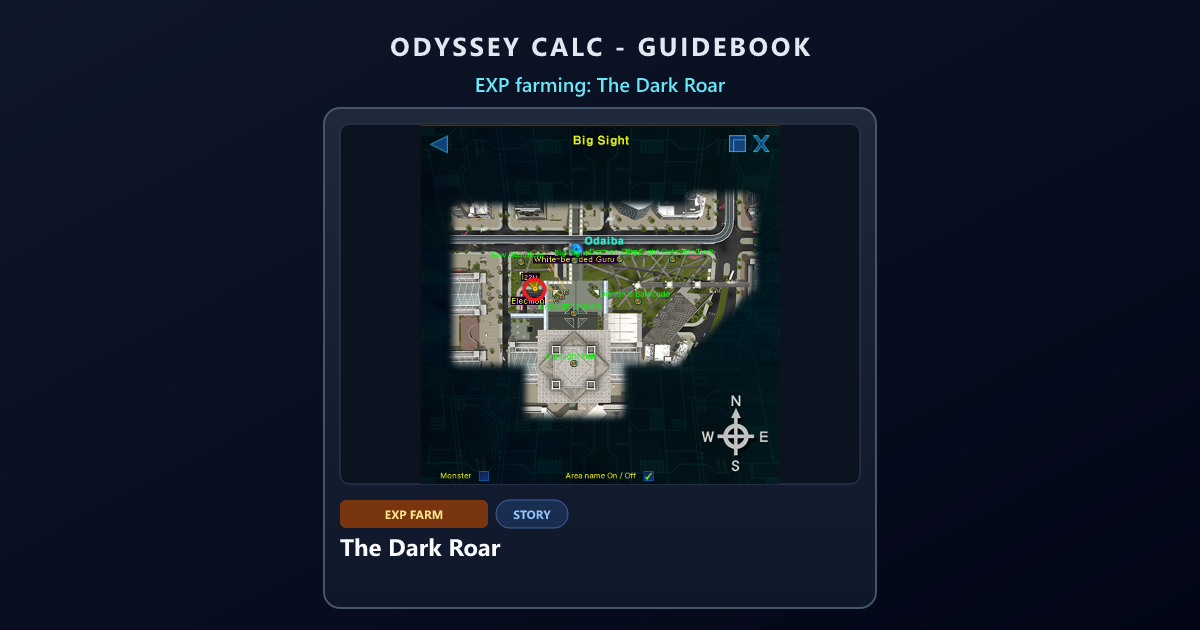
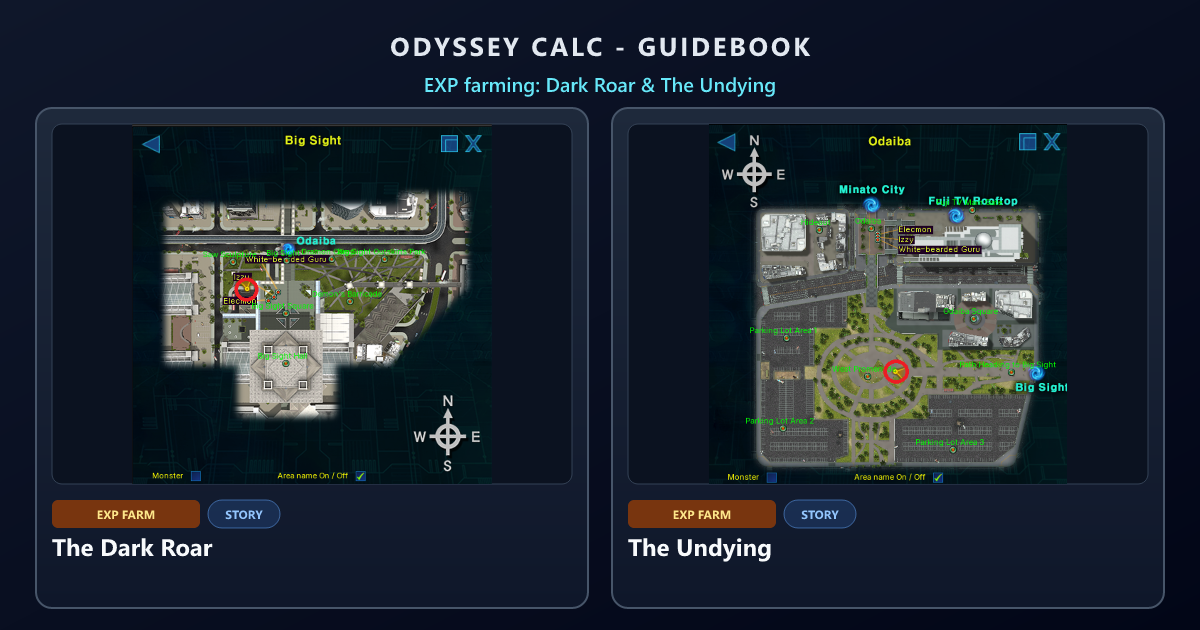
Expand EXP farming with The Undying dungeon and location art.
Rename zone to Gain levels, add VenomVamdemon farm copy, dual dungeon panels, and regenerate Discord share previews with the-undying-location.png.

diff --git a/src/components/guidebook/GuidebookWidgets.tsx b/src/components/guidebook/GuidebookWidgets.tsx
@@ -58,6 +58,7 @@ import {
 import {
   GUIDEBOOK_AGUMON_CLASSIC_ID,
   GUIDEBOOK_DARK_ROAR_DUNGEON_ID,
+  GUIDEBOOK_UNDYING_EXP_DUNGEON_ID,
   GUIDEBOOK_HIKARI_SEES_ODAIBA_QUEST_ID,
   GUIDEBOOK_DIGIVICE_FRAGMENT_EACH_COUNT,
   GUIDEBOOK_DIGIVICE_FRAGMENTS,
@@ -1503,18 +1504,25 @@ export function GuideEarlyGame70Beyond() {
             Now that you&apos;ve done that 70 uncap, you can reach 90 before the next cap. You may want
             to start leveling other digimon and the perfect place to do so is the Dark Roar dungeon in
             Big Sight. It gives a large amount of EXP in Story difficulty and can be done very easily
-            solo or in a party.
+            solo or in a party. You can also run VenomVamdemon in The Undying Story Mode for EXP, solo or in
+            a party. You can find this in Odaiba.
           </p>
         </GuideProse>
       </GuidebookNotes>
       <GuidebookDungeonPanel
-        layout="single"
-        ariaLabel="Dark Roar"
+        ariaLabel="EXP farming dungeons"
         cards={[
           {
             dungeonId: GUIDEBOOK_DARK_ROAR_DUNGEON_ID,
             nameFallback: 'The Dark Roar',
             difficulty: 'Story',
+            badgeLabel: 'EXP farm',
+          },
+          {
+            dungeonId: GUIDEBOOK_UNDYING_EXP_DUNGEON_ID,
+            nameFallback: 'The Undying',
+            difficulty: 'Story',
+            badgeLabel: 'EXP farm',
           },
         ]}
       />

diff --git a/public/share/guidebook/early-70-beyond/index.html b/public/share/guidebook/early-70-beyond/index.html
@@ -4,18 +4,18 @@
   <meta charset="UTF-8" />
   <meta name="viewport" content="width=device-width, initial-scale=1.0" />
   <title>EXP farming - Odyssey Calc Guidebook</title>
-  <meta name="description" content="The Dark Roar (Story) in Big Sight for fast EXP after your level 70 uncap. Odyssey Calc Guidebook" />
+  <meta name="description" content="The Dark Roar and The Undying (Story) for fast EXP after your level 70 uncap. Odyssey Calc Guidebook" />
   <meta property="og:type" content="website" />
   <meta property="og:site_name" content="Odyssey Calc" />
   <meta property="og:title" content="EXP farming - Odyssey Calc" />
-  <meta property="og:description" content="The Dark Roar (Story) in Big Sight for fast EXP after your level 70 uncap. Odyssey Calc Guidebook" />
+  <meta property="og:description" content="The Dark Roar and The Undying (Story) for fast EXP after your level 70 uncap. Odyssey Calc Guidebook" />
   <meta property="og:url" content="https://odyssey-calc.com/share/guidebook/early-70-beyond/" />
   <meta property="og:image" content="https://odyssey-calc.com/og/guidebook-early-70-beyond.png" />
   <meta property="og:image:width" content="1200" />
   <meta property="og:image:height" content="630" />
   <meta name="twitter:card" content="summary_large_image" />
   <meta name="twitter:title" content="EXP farming - Odyssey Calc" />
-  <meta name="twitter:description" content="The Dark Roar (Story) in Big Sight for fast EXP after your level 70 uncap. Odyssey Calc Guidebook" />
+  <meta name="twitter:description" content="The Dark Roar and The Undying (Story) for fast EXP after your level 70 uncap. Odyssey Calc Guidebook" />
   <meta name="twitter:image" content="https://odyssey-calc.com/og/guidebook-early-70-beyond.png" />
   <link rel="canonical" href="https://odyssey-calc.com/share/guidebook/early-70-beyond/" />
   <style>
@@ -30,11 +30,16 @@
 <body>
   <div class="wrap">
     <h1>EXP farming</h1>
-    <p class="muted">The Dark Roar (Story) in Big Sight for fast EXP after your level 70 uncap. Odyssey Calc Guidebook</p>
+    <p class="muted">The Dark Roar and The Undying (Story) for fast EXP after your level 70 uncap. Odyssey Calc Guidebook</p>
     <div class="panels"><article style="flex:1;min-width:280px;max-width:440px;background:linear-gradient(165deg,#1e293b,#0f172a);border:1px solid rgba(148,163,184,.25);border-radius:12px;padding:14px">
   <img src="../../../guidebook/uncap-dungeons/dark-roar-location.png" alt="The Dark Roar entrance / map location (Big Sight)" style="display:block;width:100%;aspect-ratio:16/9;object-fit:contain;object-position:center;border-radius:8px;border:1px solid #334155;margin-bottom:12px;background:#0b1220" />
   <div style="display:flex;flex-wrap:wrap;gap:8px;align-items:center;margin-bottom:10px"><span style="display:inline-block;padding:4px 10px;border-radius:6px;background:rgba(120,53,15,.9);color:#fde68a;font:700 11px system-ui,sans-serif;letter-spacing:.04em">EXP FARM</span><span style="display:inline-block;padding:4px 10px;border-radius:999px;background:rgba(59,130,246,.14);color:#93c5fd;border:1px solid rgba(96,165,250,.45);font:700 11px system-ui,sans-serif">Story</span></div>
   <h2 style="margin:0;font:700 20px system-ui,sans-serif;color:#f8fafc">The Dark Roar</h2>
+</article>
+<article style="flex:1;min-width:280px;max-width:440px;background:linear-gradient(165deg,#1e293b,#0f172a);border:1px solid rgba(148,163,184,.25);border-radius:12px;padding:14px">
+  <img src="../../../guidebook/uncap-dungeons/the-undying-location.png" alt="The Undying entrance / map location" style="display:block;width:100%;aspect-ratio:16/9;object-fit:contain;object-position:center;border-radius:8px;border:1px solid #334155;margin-bottom:12px;background:#0b1220" />
+  <div style="display:flex;flex-wrap:wrap;gap:8px;align-items:center;margin-bottom:10px"><span style="display:inline-block;padding:4px 10px;border-radius:6px;background:rgba(120,53,15,.9);color:#fde68a;font:700 11px system-ui,sans-serif;letter-spacing:.04em">EXP FARM</span><span style="display:inline-block;padding:4px 10px;border-radius:999px;background:rgba(59,130,246,.14);color:#93c5fd;border:1px solid rgba(96,165,250,.45);font:700 11px system-ui,sans-serif">Story</span></div>
+  <h2 style="margin:0;font:700 20px system-ui,sans-serif;color:#f8fafc">The Undying</h2>
 </article></div>
     <p class="muted">Opening guidebook&hellip; <a href="/#/guidebook?step=early-70-beyond">Continue here</a>. Add <code>?stay=1</code> to preview without redirect.</p>
   </div>

diff --git a/src/lib/guidebookShare.ts b/src/lib/guidebookShare.ts
@@ -35,13 +35,19 @@ const SHARE_SECTIONS: Record<string, GuidebookShareMeta> = {
     sectionId: 'early-70-beyond',
     title: 'EXP farming',
     description:
-      'The Dark Roar (Story) in Big Sight for fast EXP after your level 70 uncap. Odyssey Calc Guidebook',
+      'The Dark Roar and The Undying (Story) for fast EXP after your level 70 uncap. Odyssey Calc Guidebook',
     panels: [
       {
         badge: 'EXP farm',
         name: 'The Dark Roar',
         difficulty: 'Story',
         locationFilename: 'dark-roar-location.png',
+      },
+      {
+        badge: 'EXP farm',
+        name: 'The Undying',
+        difficulty: 'Story',
+        locationFilename: 'the-undying-location.png',
       },
     ],
   },

diff --git a/src/lib/guidebookDungeonPanel.ts b/src/lib/guidebookDungeonPanel.ts
@@ -10,6 +10,7 @@ import {
   GUIDEBOOK_GEAR_TRADEABLE_ITEM_IDS,
   GUIDEBOOK_UNCAP_50_DUNGEON_ID,
   GUIDEBOOK_UNCAP_70_DUNGEON_ID,
+  GUIDEBOOK_UNDYING_EXP_DUNGEON_ID,
 } from './guidebookContent'
 
 export type GuidebookDungeonMedia = {
@@ -49,6 +50,10 @@ export const GUIDEBOOK_DUNGEON_MEDIA: Record<string, GuidebookDungeonMedia> = {
   [GUIDEBOOK_DARK_ROAR_DUNGEON_ID]: dungeonLocationMedia(
     'dark-roar-location.png',
     'The Dark Roar — entrance / map location (Big Sight)',
+  ),
+  [GUIDEBOOK_UNDYING_EXP_DUNGEON_ID]: dungeonLocationMedia(
+    'the-undying-location.png',
+    'The Undying — entrance / map location',
   ),
 }
 

diff --git a/src/lib/guidebookContent.ts b/src/lib/guidebookContent.ts
@@ -25,6 +25,9 @@ export const GUIDEBOOK_UNCAP_70_DUNGEON_ID = 'urb9jgm'
 /** The Dark Roar — EXP farm in Big Sight (Story). */
 export const GUIDEBOOK_DARK_ROAR_DUNGEON_ID = 'uzyxsi2'
 
+/** The Undying — VenomVamdemon EXP farm (Story). */
+export const GUIDEBOOK_UNDYING_EXP_DUNGEON_ID = 'u11u777w'
+
 /** Homeostasis Wish — 5 required for digivice craft/upgrade. */
 export const GUIDEBOOK_HOMEOSTASIS_WISH_ITEM_ID = 'i1fgyfqa'
 

diff --git a/src/lib/guidebookProgression.ts b/src/lib/guidebookProgression.ts
@@ -70,11 +70,12 @@ export const GUIDEBOOK_PROGRESSION_STEPS: GuidebookProgressionStep[] = [
   {
     id: 'early-70-beyond',
     title: 'EXP farming',
-    zone: 'Big Sight',
+    zone: 'Gain levels',
     zoneTone: 'metro',
     summary: 'Level alts and partners quickly after your 70 uncap.',
     tasks: [
       { kind: 'farm', text: 'Run The Dark Roar (Story) in Big Sight for large EXP, solo or in a party.' },
+      { kind: 'farm', text: 'Run VenomVamdemon in The Undying (Story) for EXP, solo or in a party.' },
       { kind: 'tip', text: 'Push toward level 90 before the next level cap.' },
     ],
   },